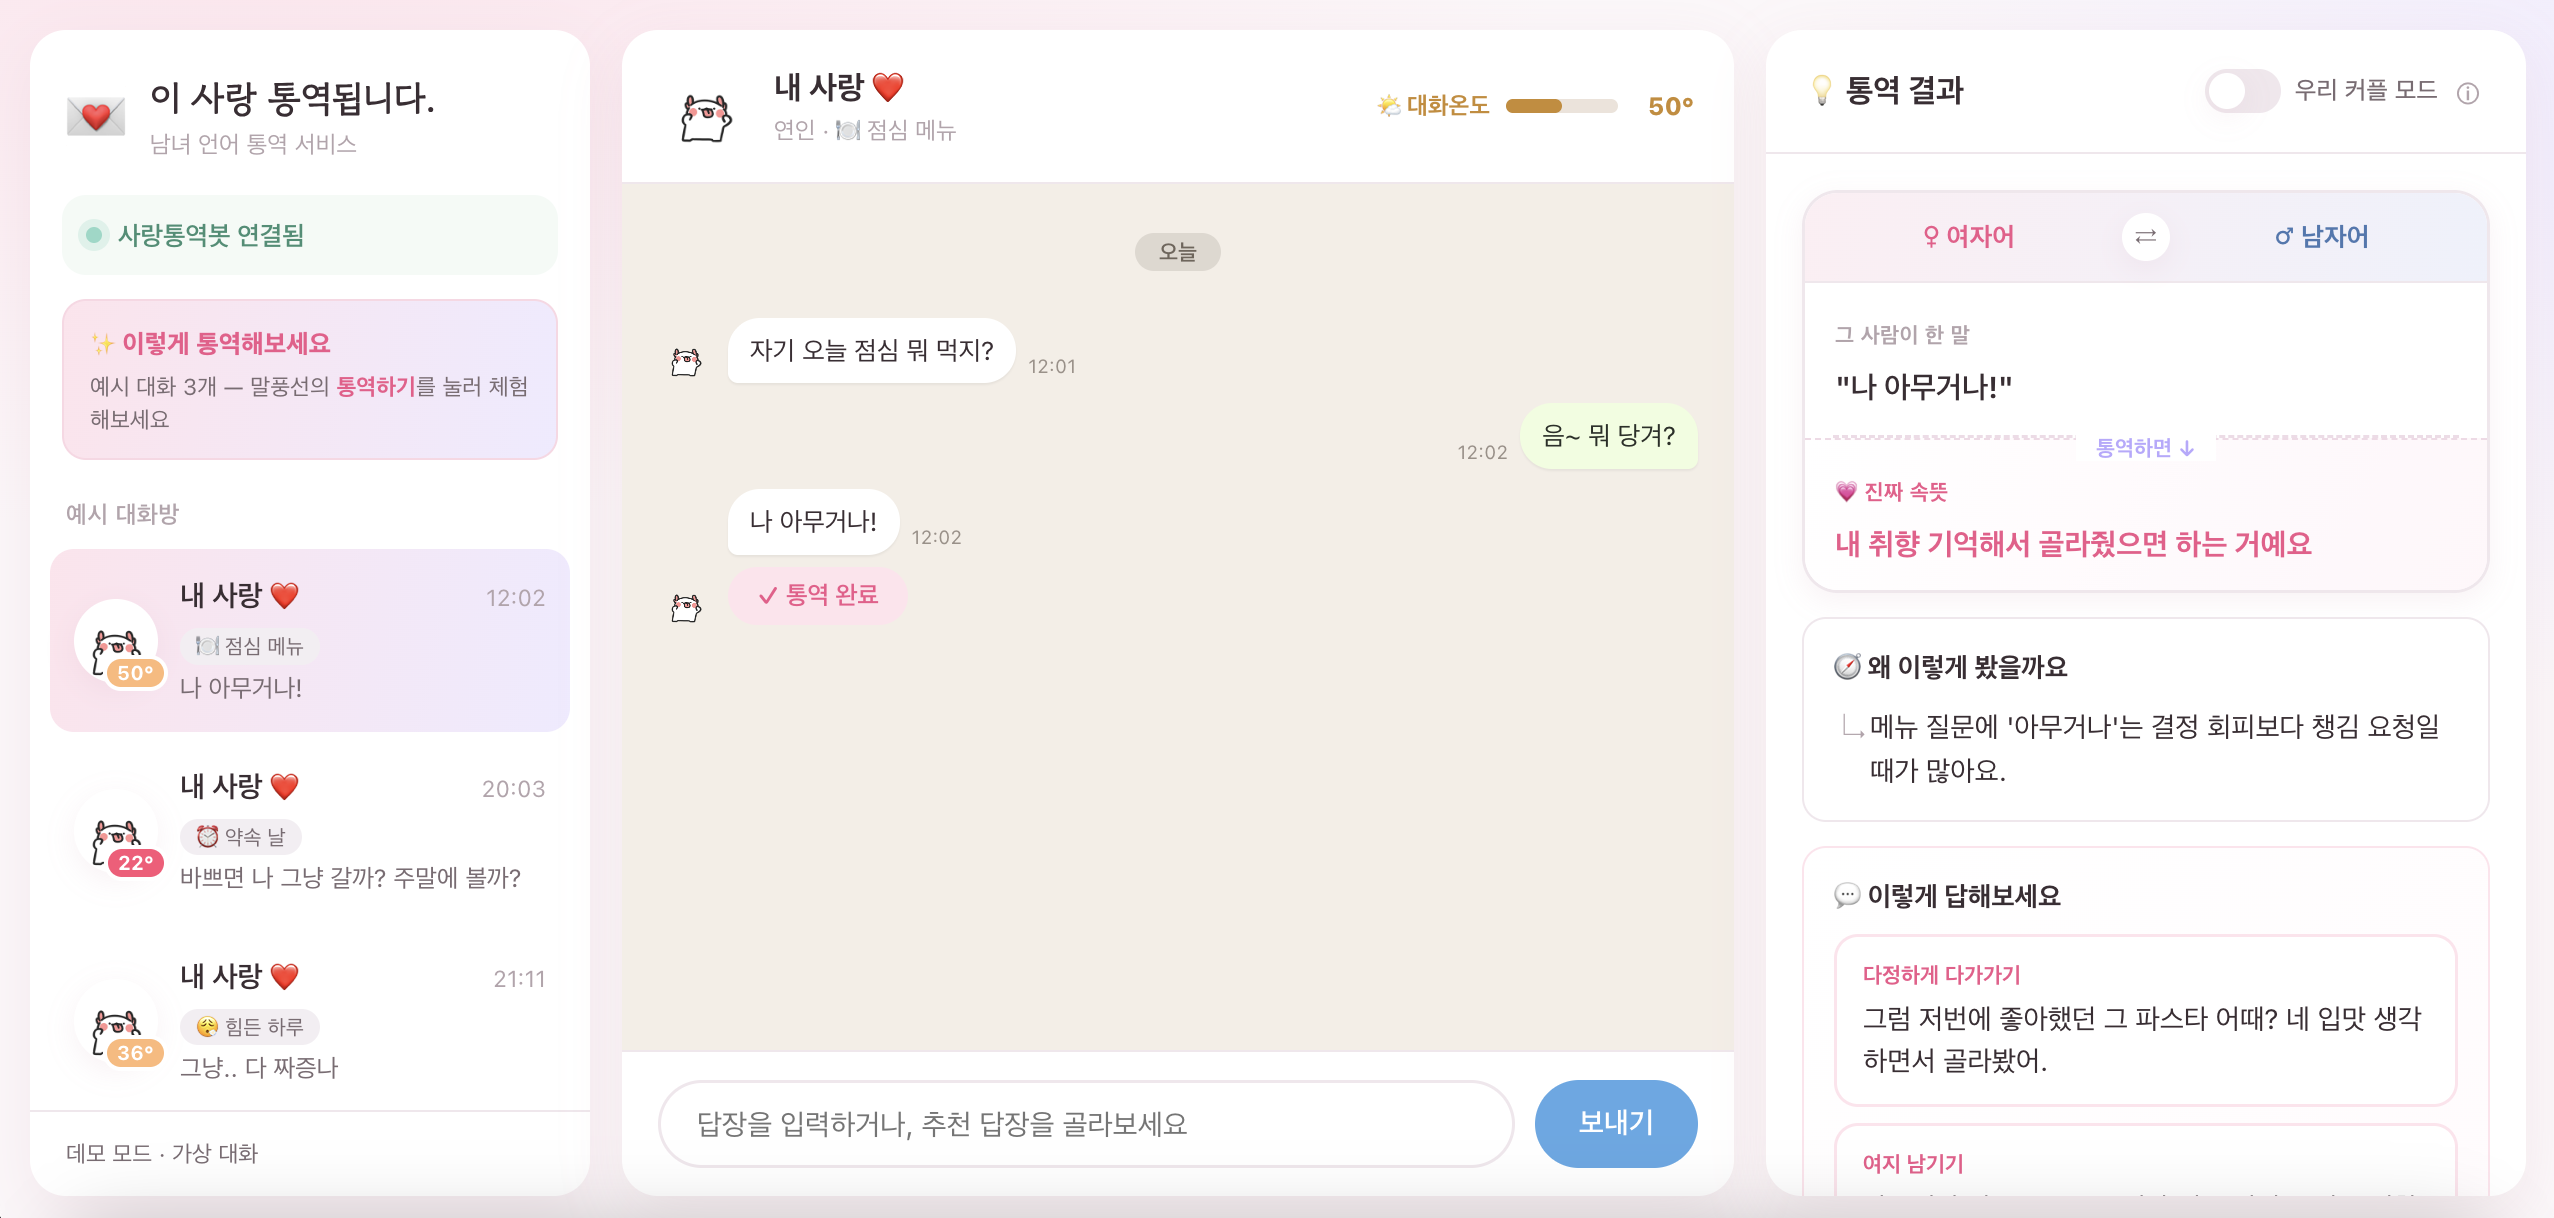
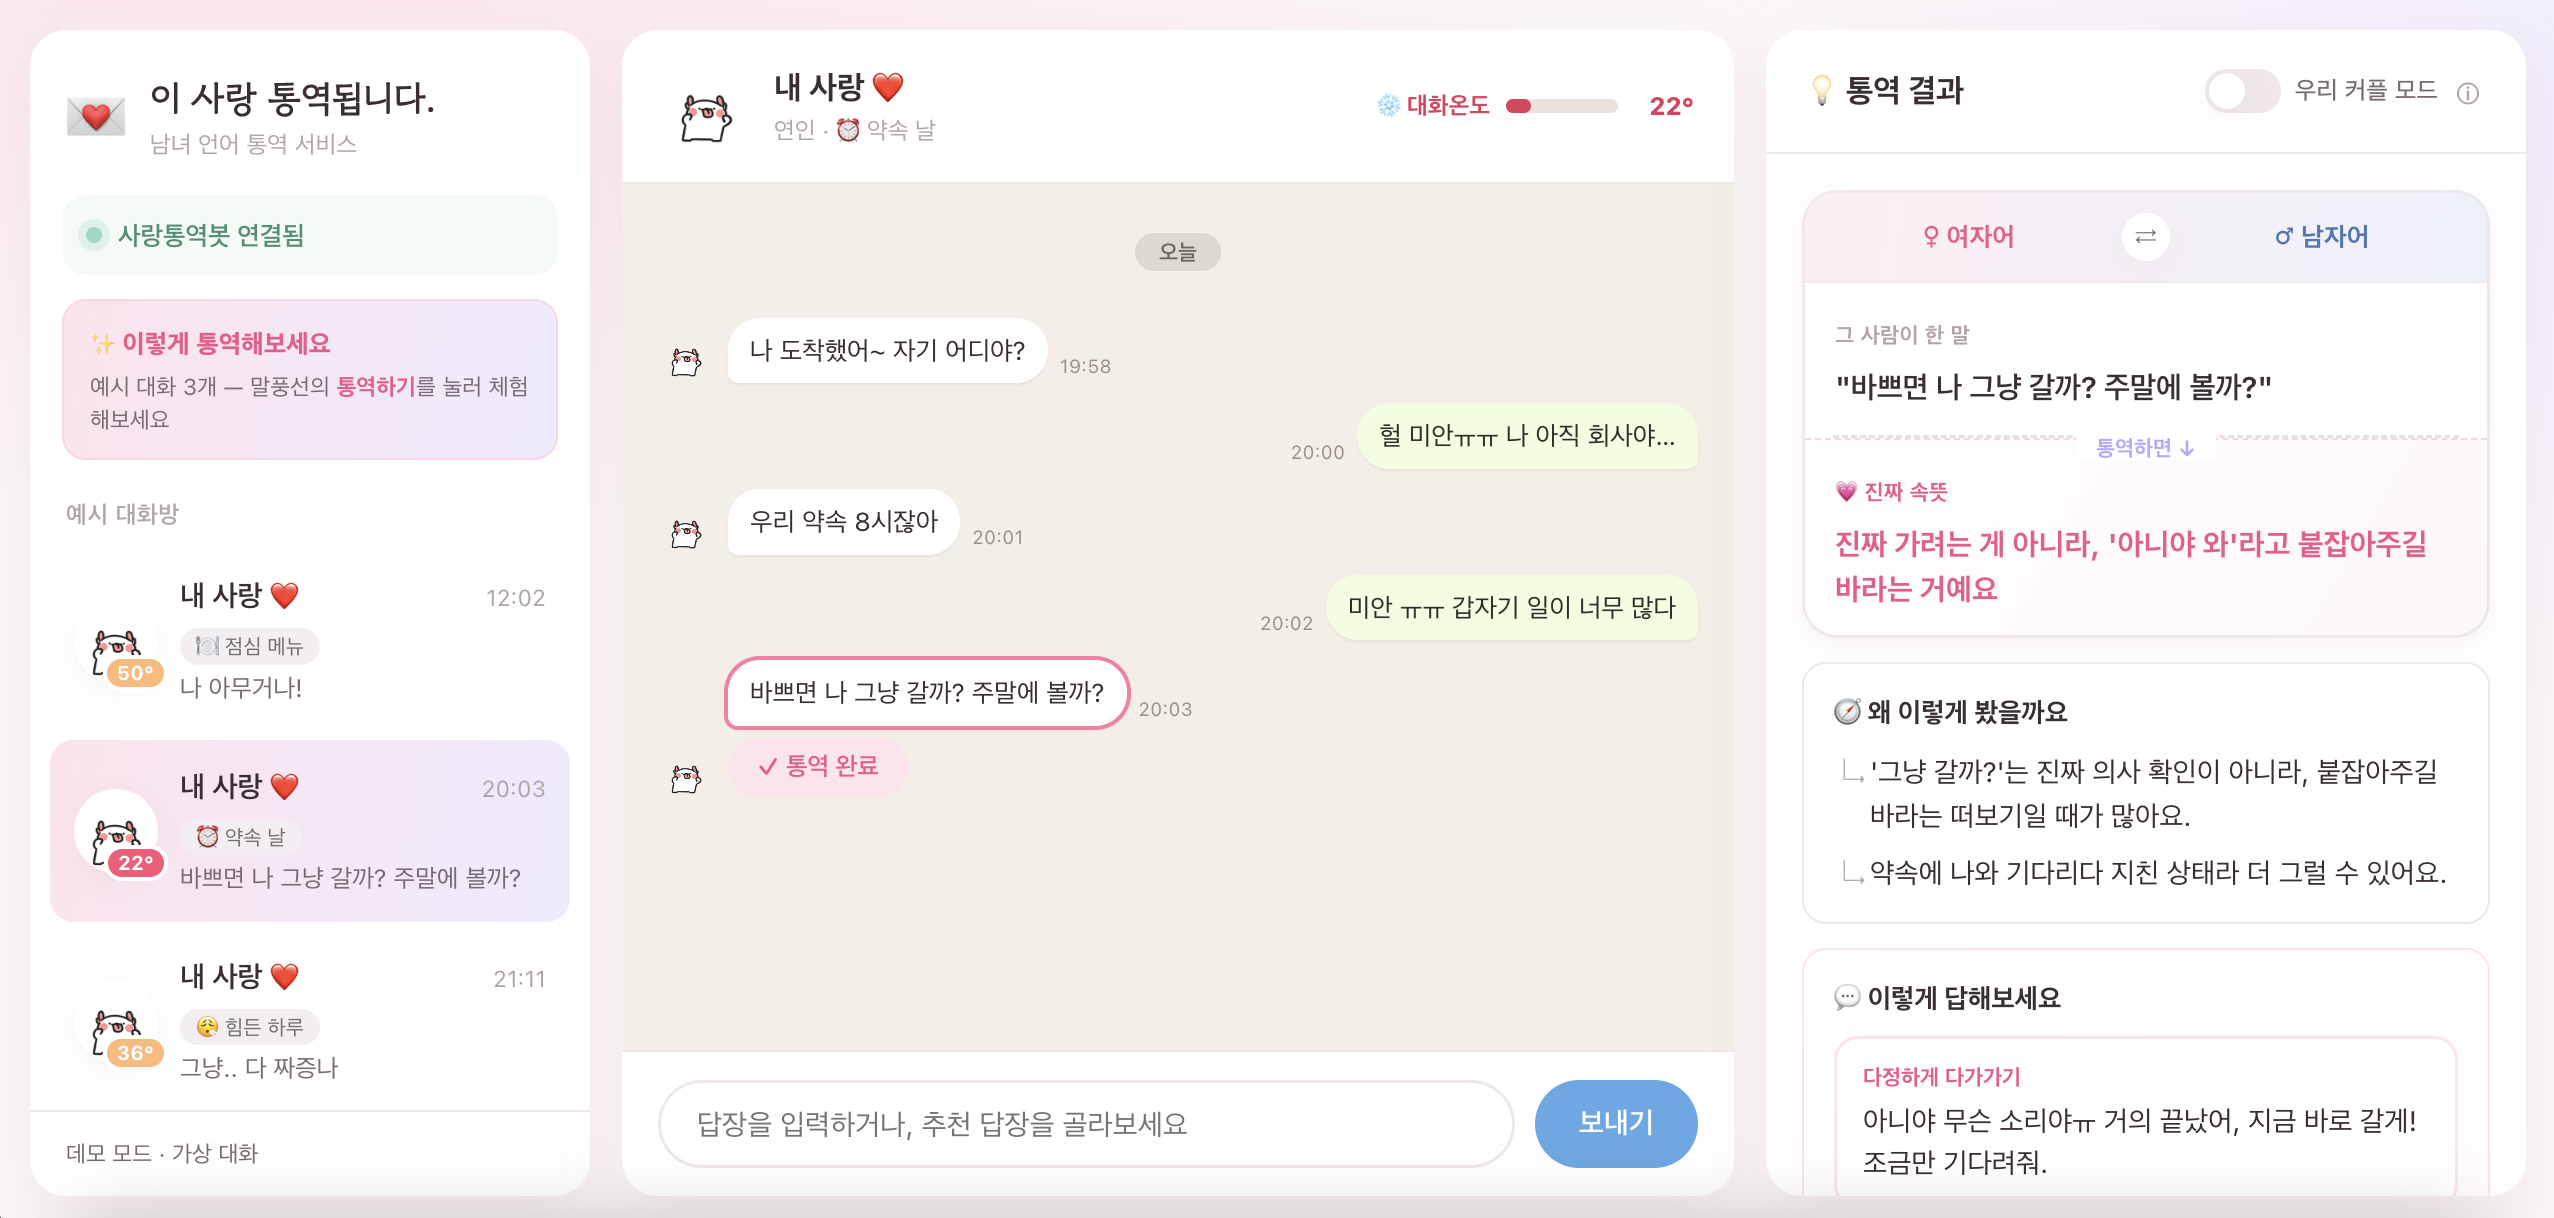
덱 다듬기: S3 브릿지 'AI로 사랑도 통역되지 않을까?', S4 ③단계에 위험답변✕·추천✓ 대비 강조

diff --git a/deck.html b/deck.html
@@ -75,6 +75,8 @@
   .s4 .row{display:flex;justify-content:center;gap:12px;margin:20px 0 12px;flex-wrap:wrap}
   .stepc{background:#fff;border:1.5px solid #f1e2ea;border-radius:13px;padding:11px 18px;box-shadow:0 6px 18px rgba(199,120,150,.1);font-size:clamp(12px,1.35vw,16px);font-weight:600;color:var(--ink-soft)}
   .stepc b{color:var(--rose);font-weight:800;margin-right:7px}
+  .stepc .x{color:#e0395c;font-weight:800}
+  .stepc .o{color:#2f9576;font-weight:800}
   .s4 .kicker{font-size:clamp(13px,1.55vw,19px);font-weight:700}
   .s4 .kicker b{color:var(--rose)}
   .s4 .url{color:var(--ink-soft);font-weight:700;font-size:clamp(12px,1.3vw,15px);margin-left:6px}
@@ -144,7 +146,7 @@
           <div class="g"><img src="assets/book.jpg" alt="" onerror="this.style.display='none';this.nextElementSibling.style.display='grid'" /><div class="ph" style="display:none">📚 책<br/><span>assets/book.jpg</span></div></div>
           <div class="g"><img src="assets/song.jpg" alt="" onerror="this.style.display='none';this.nextElementSibling.style.display='grid'" /><div class="ph" style="display:none">🎵 노래<br/><span>assets/song.jpg</span></div></div>
         </div>
-        <p class="bridge"><span class="grad">AI로 사랑을 통역할 수 있지 않을까?</span></p>
+        <p class="bridge"><span class="grad">AI로, 사랑도 통역되지 않을까?</span></p>
       </div>
     </section>
 
@@ -157,9 +159,9 @@
           <div class="ph" style="display:none">📱 제품 화면 캡처<br/><span>assets/demo.png</span></div>
         </div>
         <div class="row">
-          <div class="stepc"><b>① 감지</b>애매한 한마디를 캐치</div>
-          <div class="stepc"><b>② 통역</b>진짜 속뜻을 알려줘요</div>
-          <div class="stepc"><b>③ 답장 추천</b>관계를 지키는 답장</div>
+          <div class="stepc"><b>① 감지</b>오해가 생길 한마디를 캐치</div>
+          <div class="stepc"><b>② 통역</b>"진짜 속뜻"을 알려줘요</div>
+          <div class="stepc"><b>③ 답장</b>하면 안 될 답변 <span class="x">✕</span> · 추천 답장 <span class="o">✓</span></div>
         </div>
         <p class="kicker">내 답장에 따라 상대 반응과 <b>'대화온도'</b>가 실시간으로 바뀝니다.<span class="url">🔗 love-translator-demo.vercel.app</span></p>
       </div>